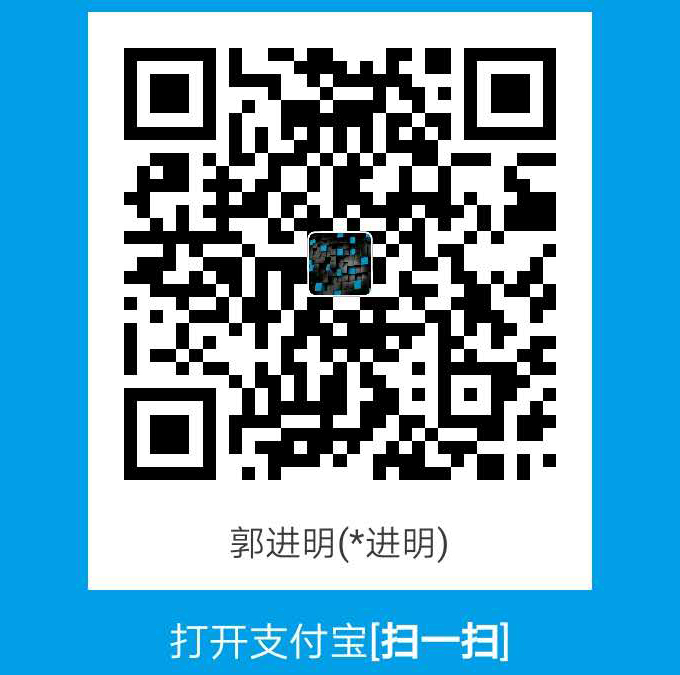
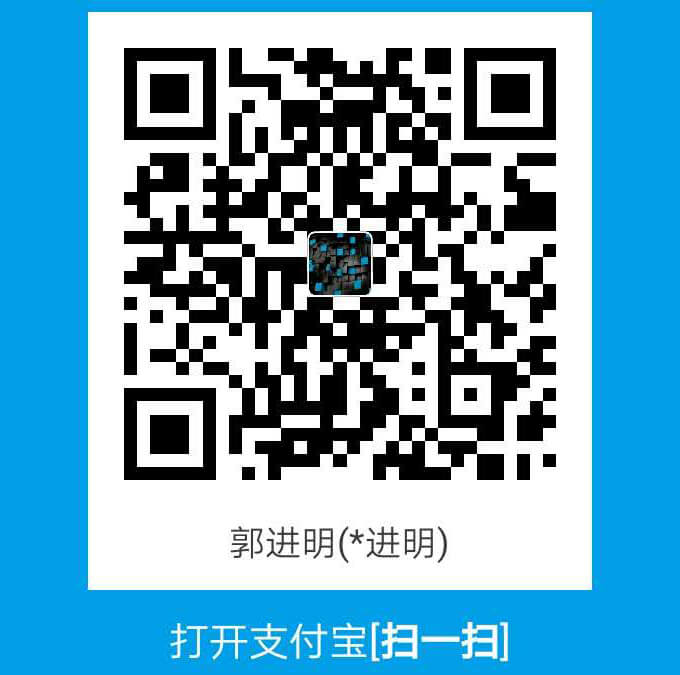
add post -u3d-ui流光 and 压缩图片

Changed region(s): [[0.4324, 0.9333, 0.4632, 0.9644]]

diff --git a/source/_posts/cn/20190906-Unity3d-UI边缘流光特性小技巧.md b/source/_posts/cn/20190906-Unity3d-UI边缘流光特性小技巧.md
@@ -1,0 +1,78 @@
+---
+title: Unity3d-UI边缘流光特性小技巧
+lang: cn
+date: 2019-09-06 23:47:53
+tags:
+    - Unity3D
+    - Unity3D-特效
+    - Unity3D-UI
+categories:
+    - Unity3D
+---
+
+
+今天给大家说一个做UI特效的小技巧，先来看看效果吧
+
+![images](https://tdou.cc/images/ui_liuguang/01.gif)
+
+
+## 开始
+
+1. 首先找你们UI组要一个需要制作特效的UI
+![images](https://tdou.cc/images/ui_liuguang/01.png)
+
+
+2. 然后在 3dMax 里安装UI尺寸创建一个面片, 之后吧UI当做贴图贴上去
+![images](https://tdou.cc/images/ui_liuguang/02.png)
+
+
+3. 切换到顶视图，然后在UI的边框画一条曲线（注意要用Line自己画出来）
+![images](https://tdou.cc/images/ui_liuguang/03-1.png)
+![images](https://tdou.cc/images/ui_liuguang/03-2.png)
+
+4. 创建一个面片 在这条曲线上走一个路径动画，要把这条曲线走完（面片的面数不用太高）
+![images](https://tdou.cc/images/ui_liuguang/04.png)
+
+5. 选中面片转换成不受曲线影响的模型
+![images](https://tdou.cc/images/ui_liuguang/05.png)
+
+6. 把这个模型四个角的点修整一下
+![images](https://tdou.cc/images/ui_liuguang/06.png)
+
+7. 把这个模型转换成poly模式 再把断边的点合并
+![images](https://tdou.cc/images/ui_liuguang/07.png)
+
+8. 删掉模型多余的线
+![images](https://tdou.cc/images/ui_liuguang/08.png)
+
+9. 再然后选择四条边角线  做一个倒角
+![images](https://tdou.cc/images/ui_liuguang/09.png)
+
+10. 再添加一个分UV的命令 稍微调整一下UV
+![images](https://tdou.cc/images/ui_liuguang/10.png)
+
+11. UV如下图所示（UV分好后导出FBX格式的模型放入你的工程文件里）
+![images](https://tdou.cc/images/ui_liuguang/11.png)
+
+12. 打开你们的U3D把UI放进去 （大小什么的要问你们的程序要一个GUI）
+![images](https://tdou.cc/images/ui_liuguang/12.png)
+
+13. 然后选一个比较合适的贴图（这里贴图自己弄，我的GIF效果用的不是这个图，只是为了说明一下）
+![images](https://tdou.cc/images/ui_liuguang/13.png)
+
+14. 然后把你们的FBX格式模型放到U3D里面，然后把选好的贴图帖上去，再按ctrl+6打开动画面板（应该需要稍微做下调整）
+![images](https://tdou.cc/images/ui_liuguang/14.png)
+
+15. 接着就是给你的模型材质球上面K针，就是UV动画。
+![images](https://tdou.cc/images/ui_liuguang/15.png)
+
+16. 再然后就是把你K好的这个动画文件勾上循环
+![images](https://tdou.cc/images/ui_liuguang/16.png)
+
+17. 接着再复制一个旋转一下角度
+![images](https://tdou.cc/images/ui_liuguang/17.png)
+
+--- 
+
+版权声明：本文为博主原创文章，遵循 [CC 4.0 BY-SA](http://creativecommons.org/licenses/by-sa/4.0/) 版权协议，转载请附上原文出处链接和本声明。
+本文链接：https://tdou.cc/cn/Unity3d-UI边缘流光特性小技巧/
